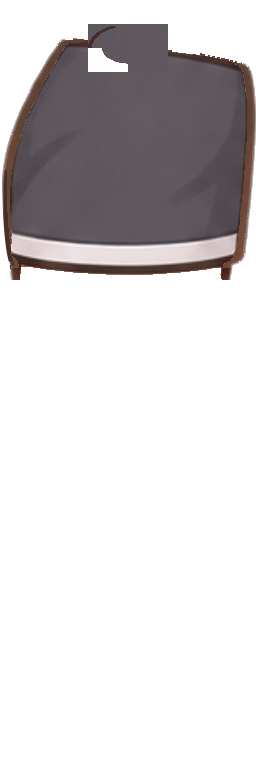
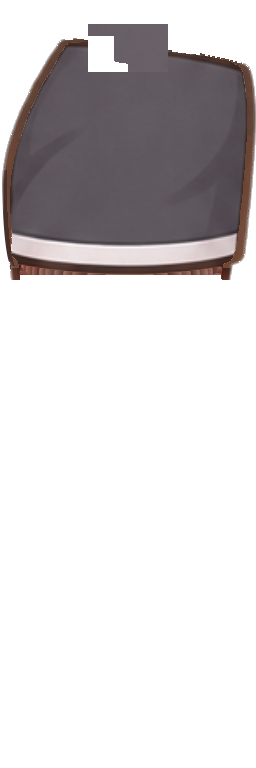
fix: 판정 round4 달리기 엉덩이 슬래브·leggings 덧조각·hoodie 소매·high_top 그림자를 고친다 [S15P31A207-300]
- 엉덩이 잇기 칸: 등 쪽(가로 -0.35보다 등 쪽, 맨 위 띠 제외)까지 투명하게 깎고 둘레 외곽선은 그리지 않는다(뒤 허리 「ㄱ」자 홈·짙은 쐐기).
  옮기는 조각 색을 다리 윗부분 뒤쪽 천 평균에 맞춘다(wide_pants 밝은 슬래브).
- 다리 윗부분(y 90~279)에서 맨몸이 하의 뒤로 비치는 곳을 하의 색으로 덮는다(leggings 회색 덧조각).
- hoodie 달리기: 몸통 위 끝 가는 획(「ㅅ」자)을 지우고, 팔(화면 등 쪽 실루엣) 가장자리에 외곽선을 칠하고 그 안쪽 밝은 줄을 누른다.
- high_top 달리기 신발 끈 옆 검은 계단 잔상을 손 마스크(templates/fixes, 데이터 파일)로 지운다.

Changed region(s): [[0.0625, 0.3438, 0.2812, 0.375], [0.3438, 0.0312, 0.4688, 0.0938], [0.7188, 0.3438, 0.875, 0.375]]

diff --git a/android/core/avatar/tools/outfit-pipeline/outfit_pipeline/hip.py b/android/core/avatar/tools/outfit-pipeline/outfit_pipeline/hip.py
@@ -24,6 +24,7 @@ IMAGE_NAME = "Cloth textured hip connection"
 SOURCE = (88, 160, 168, 208)  # 원래 메시가 쓰던 텍스처 칸(x0, y0, x1, y1)
 TARGET_TOP = 24  # 옮길 칸 위 끝(텍스처 y). 아래 끝은 TARGET_TOP + 48
 HEIGHT = 768
+TONE_BOX = (20, 140, 70, 250)  # 엉덩이 조각 색을 맞출 다리 윗부분 뒤쪽 천 칸(x0, y0, x1, y1)
 V_SHIFT = (SOURCE[1] - TARGET_TOP) / HEIGHT  # 꼭짓점 v에서 뺄 값(160 → 24)
 _TOC_FORMAT = ("u", "s", "f", "c")
 
@@ -124,6 +125,16 @@ def paint_hip(layer: Image.Image) -> Image.Image:
     patch = array[y0:y1, x0:x1].copy()
     if not (patch[..., 3] > 0).any():
         return layer
+    # 엉덩이 잇기 조각은 천 가운데라 다리 윗부분 뒤쪽보다 밝아 밝은 슬래브로 보였다(판정 round4 wide_pants): 다리 윗부분 뒤쪽 천의
+    # 평균 색에 맞춰 옮긴다(무늬·그늘 차이는 그대로)
+    tx0, ty0, tx1, ty1 = TONE_BOX
+    back = array[ty0:ty1, tx0:tx1]
+    cloth = back[..., 3] >= 250
+    opaque = patch[..., 3] >= 250
+    if cloth.sum() > 100 and opaque.sum() > 100:
+        shift = back[cloth][:, :3].astype(float).mean(axis=0) - patch[opaque][:, :3].astype(float).mean(axis=0)
+        patch = patch.copy()
+        patch[..., :3] = (patch[..., :3].astype(float) + shift).round().clip(0, 255).astype(np.uint8)
     array[TARGET_TOP : TARGET_TOP + (y1 - y0), x0:x1] = patch
     return Image.fromarray(array, "RGBA")
 
@@ -207,6 +218,47 @@ def outline_leg_edge(layer: Image.Image, body: Image.Image) -> Image.Image:
     return Image.fromarray(array, "RGBA")
 
 
+LEG_TOP_ROWS = (90, 280)  # 다리 윗부분(엉덩이) 행
+
+
+def cover_leg_top(layer: Image.Image, body: Image.Image) -> Image.Image:
+    """다리 윗부분(엉덩이, [LEG_TOP_ROWS])에서 하의가 맨몸보다 좁아 맨몸(회색 속옷 칸·피부)이 하의 뒤로 비치는 곳을 가까운 하의 색으로
+    덮는다(판정 round4 leggings: 엉덩이 뒤에 회색 반투명 덧조각). 맨몸 실루엣 가장자리 [LEG_EDGE_PX]px(외곽선 자리)는 덮지 않아
+    [outline_leg_edge]가 외곽선을 입힌다. 하의가 그 행에 없으면(맨다리) 그대로 둔다."""
+    array = np.array(layer.convert("RGBA")).astype(np.float64)
+    skin = np.array(body.convert("RGBA"))
+    garment = array[..., 3] >= 128
+    solid = skin[..., 3] >= 128
+    from PIL import ImageFilter
+
+    outside = Image.fromarray(((~solid) * 255).astype(np.uint8)).filter(ImageFilter.MaxFilter(2 * LEG_EDGE_PX + 1))
+    inner = solid & ~(np.array(outside) > 0)
+    y0, y1 = LEG_TOP_ROWS
+    todo = np.zeros(garment.shape, bool)
+    rows = [y for y in range(y0, y1) if garment[y].sum() >= 40]
+    for y in rows:
+        todo[y] = inner[y] & ~garment[y]
+    known = garment.copy()
+    while todo.any():
+        grown = []
+        for y, x in zip(*np.nonzero(todo), strict=True):
+            around = [
+                array[ny, nx, :3]
+                for ny, nx in ((y - 1, x), (y + 1, x), (y, x - 1), (y, x + 1))
+                if 0 <= ny < known.shape[0] and 0 <= nx < known.shape[1] and known[ny, nx]
+            ]
+            if around:
+                grown.append((y, x, np.mean(around, axis=0)))
+        if not grown:
+            break
+        for y, x, color in grown:
+            array[y, x, :3] = color
+            array[y, x, 3] = 255
+            known[y, x] = True
+            todo[y, x] = False
+    return Image.fromarray(array.round().clip(0, 255).astype(np.uint8), "RGBA")
+
+
 def finish_run_leg(layer: Image.Image, body: Image.Image | None) -> Image.Image:
     """달리기 다리 하의 레이어 마무리(판정 round1~3 C): 엉덩이 잇기 칸(등 아래 모서리 깎음), 엉덩이 뒷면 둥근 모서리, 맨몸 다리
     외곽선."""
@@ -214,21 +266,20 @@ def finish_run_leg(layer: Image.Image, body: Image.Image | None) -> Image.Image:
 
     layer = round_hip_corner(carve_hip(paint_hip(layer)))
     if body is not None:
-        layer = outline_leg_edge(layer, body)
+        layer = outline_leg_edge(cover_leg_top(layer, body), body)
     # 깎은 뒷면 끝 픽셀이 세로 틈(검사 14번)이 되지 않게 닫는다
     return close_seams(layer)[0]
 
 
-BACK_ARC = (150, 250)  # 등 쪽 외곽선을 칠하는 타원 둘레 각(도, x 오른쪽 0, y 아래로 커짐): 등 가운데 아래 → 등 위
-BACK_PX = 4
 CARVE = 0.42  # 엉덩이 잇기 타원의 등 아래 사분면에서 (x/rx)²+(y/ry)²가 이보다 크면 깎는다(화면 블록의 등 아래 모서리)
+CARVE_BACK = -0.35  # 타원 가로 위치(-1 등 끝 ~ 1 앞 끝)가 이보다 등 쪽이면 깎는다(화면 블록의 곧은 뒷면·뒤 허리 모서리)
 
 
 def carve_hip(layer: Image.Image) -> Image.Image:
-    """엉덩이 잇기 칸(TARGET)의 등 아래 사분면 바깥을 투명하게 깎아 화면 블록의 등 아래 모서리를 없앤다(판정 round3 C: 뒷면이 곧게
-    내려와 허벅지에서 각지게 꺾임). 메시가 타원이어도 뼈 변형으로 화면에서는 각진 블록이라 텍스처 알파로 깎는다. 깎은 자리에는 그 뒤
-    다리 메시 윗부분(외곽선이 있는 하의 엉덩이)이 보여 실루엣이 다리로 이어진다. 깎은 경계에 외곽선을 그리면 옷 안쪽 호로 떠 보여 그리지
-    않고, 깎지 않은 등 쪽 둘레만 외곽선을 칠한다."""
+    """엉덩이 잇기 칸(TARGET)의 등 쪽([CARVE_BACK]보다 등 쪽 전체와 등 아래 사분면 바깥)을 투명하게 깎는다(판정 round3·4 C). 메시가
+    타원이어도 뼈 변형으로 화면에서는 각진 블록이라, 그 등 쪽이 다리 윗부분보다 튀어나와 곧은 뒷면·각진 모서리·밝은 슬래브로 보였다.
+    깎은 자리에는 그 뒤 다리 메시 윗부분(맨몸 다리 외곽선을 입은 하의 엉덩이)이 보여 뒷면 실루엣이 다리로 이어진다. 깎은 경계와 둘레에는
+    외곽선을 그리지 않는다(옷 안쪽 호·짙은 쐐기로 떠 보였다)."""
     array = np.array(layer.convert("RGBA"))
     x0, y0, x1, y1 = SOURCE
     height = y1 - y0
@@ -238,12 +289,6 @@ def carve_hip(layer: Image.Image) -> Image.Image:
     yy, xx = np.mgrid[0:height, 0 : x1 - x0]
     nx = (xx - (x1 - x0 - 1) / 2) / ((x1 - x0) / 2)
     ny = (yy - (height - 1) / 2) / (height / 2)
-    region[(nx < 0) & (ny > 0) & (nx * nx + ny * ny > CARVE)] = 0
-    # 등 쪽 가장자리(타원 둘레 [BACK_ARC] 도, 깎지 않은 곳)는 화면 블록의 뒷면 실루엣이라 짙은 외곽선을 칠한다
-    radius = np.sqrt(nx * nx + ny * ny)
-    angle = np.degrees(np.arctan2(ny, nx)) % 360
-    back = (radius <= 1) & (radius > 1 - BACK_PX / ((x1 - x0) / 2)) & (angle >= BACK_ARC[0]) & (angle <= BACK_ARC[1])
-    back &= region[..., 3] > 0
-    region[back, :3] = CORNER_OUTLINE
-    region[back, 3] = 255
+    # 맨 위 띠(ny < -0.5)는 남긴다: 등 쪽 위까지 깎으면 상의 밑단과 다리 사이에 배경 삼각형이 뚫렸다
+    region[((nx < CARVE_BACK) & (ny > -0.5)) | ((nx < 0) & (ny > 0) & (nx * nx + ny * ny > CARVE))] = 0
     return Image.fromarray(array, "RGBA")

diff --git a/android/core/avatar/tools/outfit-pipeline/outfit_pipeline/run.py b/android/core/avatar/tools/outfit-pipeline/outfit_pipeline/run.py
@@ -9,6 +9,8 @@
 
 from __future__ import annotations
 
+from pathlib import Path
+
 import numpy as np
 from PIL import Image, ImageFilter
 
@@ -16,6 +18,7 @@ SOLID = 128
 PIECE = 1000
 BACK_KEYS = ("top_winter_hoodie",)
 EDGE_PX = 4
+SHEEN_PX = 14  # 소매 가장자리 밝은 줄을 누르는 띠 폭
 EDGE_INK = 75  # 이보다 어두운 가장자리는 이미 외곽선
 OUTLINE = (66, 46, 40)
 CORD_BOX = {"bottom_jogger_pants": (0, 95, 30, 155)}  # 허리끈 끝(갈색·금속) 칸(x0, y0, x1, y1)
@@ -101,6 +104,55 @@ def clean_cord(layer: Image.Image, key: str) -> Image.Image:
     return Image.fromarray(array.round().clip(0, 255).astype(np.uint8), "RGBA")
 
 
+def outline_all_edges(layer: Image.Image) -> tuple[Image.Image, int]:
+    """배경(텍스처 밖 포함)과 [EDGE_PX]px 안의 옷 픽셀 가운데 밝기 [EDGE_INK] 이상을 짙은 갈색으로 칠한다(hoodie 달리기 소매: 화면에서
+    등 쪽 실루엣은 소매가 만들고, 그 가장자리가 밝은 줄(소매 얼룩)이라 외곽선이 없어 보였다)."""
+    array = np.array(layer.convert("RGBA")).astype(np.float64)
+    solid = array[..., 3] >= SOLID
+    background = np.pad(~solid, EDGE_PX, constant_values=True)
+    near = _morph(background, ImageFilter.MaxFilter(2 * EDGE_PX + 1))[EDGE_PX:-EDGE_PX, EDGE_PX:-EDGE_PX]
+    edge = solid & near & (array[..., :3].mean(axis=-1) >= EDGE_INK)
+    array[edge, :3] = array[edge, :3] * 0.2 + np.array(OUTLINE) * 0.8
+    # 외곽선 안쪽 띠(가장자리에서 [EDGE_PX]~[SHEEN_PX]px)의 밝은 줄(소매 얼룩)을 천 가운데값 쪽으로 누른다
+    wide = _morph(background, ImageFilter.MaxFilter(2 * SHEEN_PX + 1))[EDGE_PX:-EDGE_PX, EDGE_PX:-EDGE_PX]
+    cloth = solid & ~near
+    median = np.median(array[cloth][:, :3], axis=0) if cloth.any() else None
+    sheen = cloth & wide & (array[..., :3].mean(axis=-1) > (median.mean() + 12 if median is not None else 999))
+    if median is not None:
+        array[sheen, :3] = array[sheen, :3] * 0.4 + median * 0.6
+    return Image.fromarray(array.round().clip(0, 255).astype(np.uint8), "RGBA"), int(edge.sum())
+
+
+TOP_STROKE_ROWS = 45  # 달리기 몸통 위 끝(후드 꼭대기)에서 가는 획을 지우는 행
+
+
+def trim_top_strokes(layer: Image.Image) -> tuple[Image.Image, int]:
+    """달리기 몸통 위 [TOP_STROKE_ROWS]행에서 5x5로 열면 사라지는 가는 부분(후드 꼭대기 들쭉날쭉한 끝, 「ㅅ」자 획)을 지운다
+    (판정 round4 hoodie run 목)."""
+    array = np.array(layer.convert("RGBA"))
+    solid = array[..., 3] >= SOLID
+    thick = _morph(solid, ImageFilter.MinFilter(5), ImageFilter.MaxFilter(5), ImageFilter.MaxFilter(3))
+    thin = (array[..., 3] > 0) & ~thick
+    thin[TOP_STROKE_ROWS:] = False
+    array[thin] = 0
+    return Image.fromarray(array, "RGBA"), int(thin.sum())
+
+
+FIXES = Path(__file__).resolve().parent.parent / "templates" / "fixes"
+
+
+def apply_fix_mask(layer: Image.Image, key: str, file_stem: str) -> Image.Image:
+    """손으로 정한 지울 칸(`templates/fixes/<key>__<file_stem>.png`, 흰색 = 지움)을 투명하게 한다. 자동 판별로 외곽선과 가르기 어려운
+    생성 잔상만 둔다(판정 round4: high_top 달리기 신발 끈 옆 검은 계단 그림자). 파일이 없으면 그대로."""
+    path = FIXES / f"{key}__{file_stem}.png"
+    if not path.is_file():
+        return layer
+    mask = np.array(Image.open(path).convert("L")) > 0
+    array = np.array(layer.convert("RGBA"))
+    array[mask] = 0
+    return Image.fromarray(array, "RGBA")
+
+
 def finish_run_layer(layer: Image.Image, key: str, part: str, slot: str, leg: Image.Image | None = None) -> Image.Image:
     """달리기 상의·하의 레이어 마무리(판정 round3): 상의 몸통·팔은 떨어진 조각을 지우고 몸통은 등 외곽선, 하의 다리는 허리끈 끝을 정리한
     뒤 맨몸 다리 외곽선을 다시 입힌다([leg] = 맨몸 달리기 다리, outfit_pipeline.hip.finish_run_leg)."""
@@ -108,6 +160,15 @@ def finish_run_layer(layer: Image.Image, key: str, part: str, slot: str, leg: Im
         layer, _ = drop_loose_pieces(layer)
         if slot == "run_body":
             layer, _ = outline_back(layer, key)
+            if key in BACK_KEYS:
+                layer, _ = drop_loose_pieces(trim_top_strokes(layer)[0])
+        elif key in BACK_KEYS:
+            layer, _ = outline_all_edges(layer)
+    elif part == "SHOES" and slot == "run_shoe":
+        from outfit_pipeline.body import drop_strays
+        from outfit_pipeline.shoes import drop_pieces
+
+        layer = drop_pieces(drop_strays(apply_fix_mask(layer, key, "female_run_shoe"), thin=True)[0])[0]
     elif part == "BOTTOM" and slot == "run_leg" and key in CORD_BOX:
         from outfit_pipeline.hip import finish_run_leg
 

diff --git a/android/core/avatar/tools/outfit-pipeline/tests/test_run.py b/android/core/avatar/tools/outfit-pipeline/tests/test_run.py
@@ -42,6 +42,21 @@ def test_committed_run_tops_are_finished(key: str) -> None:
         layer = Image.open(OUTFITS / key / f"female_{slot}{spec.EXTENSION}")
         again = np.array(finish_run_layer(layer, key, "TOP", slot))
         before = np.array(layer.convert("RGBA"))
-        assert np.array_equal(before[..., 3], again[..., 3]), slot
         visible = before[..., 3] > 0
-        assert np.abs(before[visible, :3].astype(int) - again[visible, :3]).max(initial=0) <= 30, slot
+        changed = (before[..., 3] != again[..., 3]) | (
+            visible & (np.abs(before[..., :3].astype(int) - again[..., :3]).max(axis=-1) > 30)
+        )
+        # 다시 돌려도 거의 그대로다(구멍 메우기 뒤 가장자리 몇 픽셀만 다를 수 있다)
+        assert int(changed.sum()) <= visible.sum() // 200, slot
+
+
+def test_fix_masks_are_applied_to_committed_layers() -> None:
+    from outfit_pipeline.run import FIXES
+
+    masks = sorted(FIXES.glob("*__*.png"))
+    assert masks, "손 마스크 파일이 없다"
+    for path in masks:
+        key, stem = path.stem.split("__")
+        mask = np.array(Image.open(path).convert("L")) > 0
+        layer = np.array(Image.open(OUTFITS / key / f"{stem}{spec.EXTENSION}").convert("RGBA"))
+        assert mask.shape == layer.shape[:2] and int(layer[mask, 3].max(initial=0)) == 0, path.name

diff --git a/android/core/avatar/OUTFIT_SPEC.md b/android/core/avatar/OUTFIT_SPEC.md
@@ -54,8 +54,8 @@ riv 네 파일(`res/raw`, 승인본 SHA 고정, 읽기만)의 아트보드는 80
 | 신발 맨발 덮기 (판정 round3) | 서기 맨몸 아틀라스는 신발 밑에 맨발(종 모양 실루엣과 짙은 외곽선)이 있다. 신발이 그보다 좁으면 신발 옆으로 맨발 피부(살구색)와 외곽선이 신발보다 큰 테두리·밝은 띠로 보였다(lime_runner, ankle_boots, basic_runner). 두 발 칸에서 신발 가로 폭이 그 행 맨발 폭의 60% 이상인 첫 행부터 아래로, 그 행 바로 위 다리 폭 밖으로 나온 불투명 맨발을 신발로 덮는다: 바깥 가장자리 2px의 맨발 외곽선은 맨몸 그대로(신발 외곽선), 나머지는 이웃 신발 천 색(`feet.cover_feet`, `stand-fix`). 그 전에 행마다 신발 바깥 끝 6px 안의 첫 짙은 외곽선(밝기 90 미만)보다 바깥에 있는, 외곽선보다 40 넘게 밝은 반투명 회색 띠(생성 그림의 그림자, basic_runner 옆 띠)를 지운다(`feet.drop_halo`) |
 | 반팔·민소매 몸통 옆 외곽선 (판정 round3) | 반팔·민소매(`maleTopSurface` 1) 서기 레이어는 소매 끝 아래 몸통 옆(y 185~301) 행마다 바깥에서 처음 만나는 상의 가장자리 6px 안에서, 안쪽 짙은 옆 외곽선(밝기 110 미만)보다 바깥에 박힌 밝은 천 점(외곽선보다 60 넘게 밝음)이 없다. 체형 100에서 몸통 옆이 늘면 짙은 외곽선 사이 흰 점이 사다리 획으로 보였다(base s100 겨드랑이 아래). `stand-fix`가 그 외곽선 색으로 칠한다(`stand_fix.solid_side_outline`) |
 | 남자 서기 긴소매 이음매 (판정 round3) | 남자 서기 riv의 긴소매 메시(Image 「Long sleeve wardrobe top」)는 팔 띠와 몸통 띠가 이음매 열에 같은 (u, v)·무게의 꼭짓점을 따로 둔다. 겨드랑이 아래(v 0.26~0.35) 몸통 쪽 꼭짓점이 0.1~1.2 단위 안쪽에 있어(바탕 자세와 체형 애니메이션 x 키) 소매와 몸통 사이로 배경이 가는 세로 줄로 비쳤다. 앱은 읽은 riv 바이트에서 몸통 쪽 값(float32 100개)을 짝인 팔 쪽 값으로 바꾼다(`RivSleeveSeam`, 파일은 승인본 그대로, 표는 `outfit_pipeline/seam.py`의 `copy_pairs`). 판정 렌더는 Rive 원본에서 같은 값을 바꾼다(`close_seam_rml`) |
-| 달리기 엉덩이 잇기·다리 실루엣 (판정 round1~3 C) | 달리기 riv의 Image 「Cloth textured hip connection」(타원 메시)은 run_leg 텍스처 가운데 조각(x 88~168, y 160~208)을 써서 엉덩이 뒷면에 외곽선이 없었고 같은 칸을 앞 다리 메시도 허벅지에 쓴다. 앱은 읽은 riv 바이트에서 그 꼭짓점 v만 136/768만큼 위로 옮겨(`RivHipConnection`, 파일은 승인본 그대로) 다리 메시가 화면에 쓰지 않는 칸(y 24~72)을 쓰게 하고, 판정 렌더는 Rive 원본의 같은 꼭짓점을 옮긴다(`retarget_rml`). 다리 메시는 맨몸 다리 실루엣 모양이라(16x16 칸과 픽셀 좌표 부호 렌더로 실측: 텍스처 행마다 화면 뒷면 경계가 맨몸 다리 왼쪽 끝과 같다) 하의가 맨몸 다리보다 넓은 곳은 화면에 나오지 않는다. 그래서 하의·맨몸 달리기 다리 레이어(`hip.finish_run_leg`)는 (1) 엉덩이 잇기 칸에 원래 조각을 옮기고 타원의 등 아래 사분면 바깥((x/rx)²+(y/ry)² > 0.42)을 투명하게 깎아(화면 블록의 등 아래 모서리를 없앤다, 깎은 경계에 외곽선을 그리면 옷 안쪽 호로 떠 보였다) 등 쪽 둘레(150~250도) 4px만 외곽선으로 칠하고, (2) 다리 텍스처 y 170~265의 뒷면을 x 2→12 사분 타원 곡선으로 깎아(곧은 뒷면이 y 264에서 10px 꺾이던 모서리) 새 가장자리 5px을 맨몸 외곽선 색으로 칠하고, (3) 하의는 맨몸 다리 외곽선(실루엣 가장자리 7px 안 짙은 픽셀) 위 하의 픽셀을 그 외곽선 색으로 바꾼다(wide·jogger 외곽선, leggings 무릎 비침). 16번 구멍 검사는 엉덩이 잇기 칸을, 17번 달리기 다리 외곽선 기준은 그 칸과 깎은 뒷면(y 170~265, x < 24)을 뺀다 |
-| 달리기 상의·하의 마무리 (판정 round3) | 달리기 상의 몸통·팔 레이어에는 본체와 떨어진 1000px 미만 덩어리가 없다(맨몸 팔 외곽선 조각이 singlet 어깨 뒤 곡선, hoodie 목 곡선으로 떠 보였다). hoodie 달리기 몸통은 행마다 등 쪽 첫 4px 가운데 밝은 곳을 짙은 갈색으로 칠한다(등판 외곽선이 옅었다. 달리기 몸통 메시는 옷 가장자리까지 보인다). jogger 달리기 다리는 허리끈 끝(x 0~29, y 95~154)의 끈·금속 픽셀을 이웃 천 색으로 바꾼다(엉덩이 뒤 짙은 점). `outfit_pipeline/run.py` |
+| 달리기 엉덩이 잇기·다리 실루엣 (판정 round1~3 C) | 달리기 riv의 Image 「Cloth textured hip connection」(타원 메시)은 run_leg 텍스처 가운데 조각(x 88~168, y 160~208)을 써서 엉덩이 뒷면에 외곽선이 없었고 같은 칸을 앞 다리 메시도 허벅지에 쓴다. 앱은 읽은 riv 바이트에서 그 꼭짓점 v만 136/768만큼 위로 옮겨(`RivHipConnection`, 파일은 승인본 그대로) 다리 메시가 화면에 쓰지 않는 칸(y 24~72)을 쓰게 하고, 판정 렌더는 Rive 원본의 같은 꼭짓점을 옮긴다(`retarget_rml`). 다리 메시는 맨몸 다리 실루엣 모양이라(16x16 칸과 픽셀 좌표 부호 렌더로 실측: 텍스처 행마다 화면 뒷면 경계가 맨몸 다리 왼쪽 끝과 같다) 하의가 맨몸 다리보다 넓은 곳은 화면에 나오지 않는다. 그래서 하의·맨몸 달리기 다리 레이어(`hip.finish_run_leg`)는 (1) 엉덩이 잇기 칸에 원래 조각을 다리 윗부분 뒤쪽 천(x 20~69, y 140~249) 평균 색에 맞춰 옮기고(밝은 슬래브), 타원의 등 쪽(가로 위치 -0.35보다 등 쪽, 맨 위 띠 제외)과 등 아래 사분면 바깥((x/rx)²+(y/ry)² > 0.42)을 투명하게 깎으며 외곽선은 그리지 않고(옷 안쪽 호·짙은 쐐기로 떠 보였다, round4), 다리 윗부분(y 90~279)에서 맨몸이 하의 뒤로 비치는 곳은 하의 색으로 덮고(leggings 회색 덧조각), (2) 다리 텍스처 y 170~265의 뒷면을 x 2→12 사분 타원 곡선으로 깎아(곧은 뒷면이 y 264에서 10px 꺾이던 모서리) 새 가장자리 5px을 맨몸 외곽선 색으로 칠하고, (3) 하의는 맨몸 다리 외곽선(실루엣 가장자리 7px 안 짙은 픽셀) 위 하의 픽셀을 그 외곽선 색으로 바꾼다(wide·jogger 외곽선, leggings 무릎 비침). 16번 구멍 검사는 엉덩이 잇기 칸을, 17번 달리기 다리 외곽선 기준은 그 칸과 깎은 뒷면(y 170~265, x < 24)을 뺀다 |
+| 달리기 상의·하의 마무리 (판정 round3) | 달리기 상의 몸통·팔 레이어에는 본체와 떨어진 1000px 미만 덩어리가 없다(맨몸 팔 외곽선 조각이 singlet 어깨 뒤 곡선, hoodie 목 곡선으로 떠 보였다). hoodie 달리기 몸통은 행마다 등 쪽 첫 4px 가운데 밝은 곳을 짙은 갈색으로 칠한다(등판 외곽선이 옅었다. 달리기 몸통 메시는 옷 가장자리까지 보인다). jogger 달리기 다리는 허리끈 끝(x 0~29, y 95~154)의 끈·금속 픽셀을 이웃 천 색으로 바꾼다(엉덩이 뒤 짙은 점). `outfit_pipeline/run.py`. hoodie는 달리기 몸통 위 45행의 가는 끝(후드 꼭대기 「ㅅ」자 획)을 지우고 달리기 팔 가장자리 4px에 외곽선을 칠하며 그 안쪽 14px의 밝은 줄을 천 가운데값 쪽으로 누른다. 자동 판별로 외곽선과 가르기 어려운 생성 잔상은 손으로 정한 마스크(`templates/fixes/<key>__<파일>.png`, 흰색 = 지움)로 지운다(high_top 달리기 신발 끈 옆 검은 계단) |
 | 하의 길이 | 달리기 다리(`run_leg`)의 하의는 기본 반바지 밑단(y 약 250)보다 짧게 끝나지 않는다(맨몸 허벅지의 이음선이 그 위에 있다) |
 | 품질 | 코랄 집업 후드(`top_cherry_vest`) 기준: 외곽선 2px(옷 기본색의 어두운 톤, 검정 아님), 음영 3단, 주름은 관절·지퍼·밑단, 광택·질감 무늬 없음 |
 
